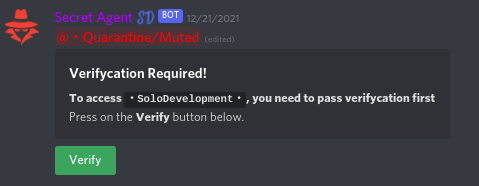
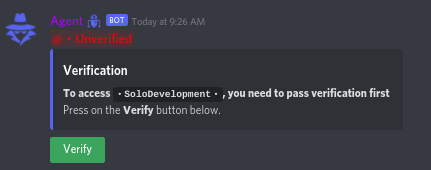
GitBook: [#21] No subject

diff --git a/agent/anti-nuke-anti-raid.md b/agent/anti-nuke-anti-raid.md
@@ -8,13 +8,19 @@ Servers are raided on a daily basis. Whether its a rouge admin, server perms not
 **Emoji Creation and Deletion**\
 **Blacklisted Names**
 
-`!trigger <command> <role> <x within min> <x within hour>` : Set triggers for certain roles.
+`a!trigger <command> <role> <x within min> <x within hour>` : Set triggers for certain roles.
 
 `a!addblackword` : Adds black words. Anyone that sends one of these words the message will be deleted.\
 \
+`a!delblackword` | `<word>` Removes word from blacklist\
+\
 `a!addblacklink link` : Adds black links. Anyone that sends one of these links the message will be deleted.\
 \
-`a!addblackname name` : Adds blacklisted names. Anyone that joins with a name from this list it will notify staff.
+`a!delblacklink` | `<link>` Removes link from blacklist\
+\
+`a!addblackname name` : Adds blacklisted names. Anyone that joins with a name from this list it will notify staff.\
+\
+`a!delblackname` | `<name>` Removes name from blacklist
 
 ### Backup System
 
@@ -29,12 +35,12 @@ To ensure a safe server and working anti nuke system Agent will restore the late
 \
 `a!showbackup/sbup <id>` : Shows more information about backup by using the id\
 \
-'restoreall/rall \<id>': 'Restores everything',\
+`a!restoreall/rall <id>` : Restores everything\
 \
-restoremissing/rms \<id>': 'Restores missing',\
+`a!restoremissing/rms <id>` : Restores missing\
 \
-'restorechannel/rsc \<all/channel(s)>': 'Restores specified or all channels',\
+`a!restorechannel/rsc <all/channel(s)>` : Restores specified or all channels\
 \
-restorerole/rsr \<all/role(s)>': 'Restores specified or all roles',\
+`a!restorerole/rsr <all/role(s)>` : Restores specified or all roles\
 \
-restorewebhooks/rswh': 'Restores all webhooks',
+`a!restorewebhooks/rswh` : Restores all webhooks

diff --git a/agent/verification.md b/agent/verification.md
@@ -4,21 +4,16 @@ description: This page describes the verification system incorporated in Wick
 
 # Verification
 
-Agent includes an easy to setup but advanced system to verify that you are here for the right uses. It helps insure that you are a real user not a scripted user. Its set so everyone entering your server has to pass through it.\
-
+Agent includes an easy to setup but advanced system to verify that you are here for the right uses.  Its set so everyone entering your server has to pass through it.\
+\
+Every user that joined your server (If enabled) will have to pass through the join gate. It helps insure that you are a real user not a scripted user. Upon join a user automatically receives the Unverified/Timeout role, to have this removed they will go to your verify channel and click verify. If there account is not marked as suspicious than they will pass, if it is they will stay locked out.
 
 To enable/disable the join gate use `a!joingate enable` or `a!joingate disable`\
 
 
 To set your verify channel use the command `a!makeverify #channel`
 
-![](<../.gitbook/assets/image (1).png>)
+![](../.gitbook/assets/image.png)
 
-
-
-If setup correctly the bot will send a menu looking like this to that channel.
-
+If setup correctly the bot will send a menu looking like this to that channel.\
 ![](<../.gitbook/assets/image (3).png>)
-
-
-

diff --git a/agent/commands/server-tools.md b/agent/commands/server-tools.md
@@ -1,0 +1,38 @@
+# Server Tools
+
+`a!purge <qty> @User` : Purges messages\
+**Note**: Only owner can use without specifying user\
+\
+`a!slowmode <seconds>` : Assigns slow mode time to current channel
+
+### Timed Messages
+
+`a!timedmessage <minutes> #channel <message>` : Sends message on timer \
+\
+`a!timedmessagelist` : Shows list of timed messages and their IDs \
+\
+`a!deltimedmessage <id>` : Deletes a timed message
+
+### Lockdown Commands
+
+`a!lockexempt <role>` : Exempts role from lockdown \
+\
+`a!dellockexempt <role>` : Removes role from lockdown exmpt\
+\
+`a!chanlockdown` : Locksdown the channel, restricting access \
+\
+`a!chanunlock` : Unlocks the channel \
+\
+`a!rolelockdown <role>` : Locksdown a role, restricting perms \
+\
+`a!roleunlock <role>` : Unlocks a role
+
+### Bot Messages
+
+`a!sendmessage #channel <msg>` : Sends a text message to channel \
+\
+`a!sendembed #channel> <title> <message> <footer> [image]` : Sends embed to channel
+
+### Whitelist
+
+`a!whitelist <ping/roleping/spam/links/words> <add/del/enable/disable> <role/channel/user>` : Whitelist one of the following for different areas of the server.

diff --git a/agent/commands/moderation/spam-scam.md b/agent/commands/moderation/spam-scam.md
@@ -3,7 +3,4 @@
 So we know all about botted accounts that come in and spam those suspicious or wishing links. So we built a spam/scam system.\
 \
 \
-`!spamscam/!ss <@user/id>` - This places them into a channel with other spammers where they cannot see other channels or actual users. This is punishment is for users who send spam/scam messages within the server or have been reported for DM spam/scam by another user.\
-\
-\
-To punish someone for something other than spam, use the `!mute/!m <@user/id> <minutes>` command which will give them the Muted role **for the specified amount of time,** prohibiting them to send messages.\
+`!spamscam/!ss <@user/id>` : This places them into a channel (If you make one) with other spammers where they cannot see other channels or actual users. This is punishment is for users who send spam/scam messages within the server or have been reported for DM spam/scam by another user.\

diff --git a/agent/commands/moderation/quarantine-and-unquarantine.md b/agent/commands/moderation/quarantine-and-unquarantine.md
@@ -2,12 +2,8 @@
 
 #### With the correct agent setup, a user in Quarantine is not capable of doing ANYTHING. They can't even see channels unless the admins allow them to.
 
-
-
-Every user that joined your server (If enabled) will have to pass through the join gate. Upon join a user automatically receives the Unquarantined role, to have this removed they will go to your verify channel and click verify. If there account is not marked as suspicious than they will pass, if it is they will stay locked out.
-
-
-
-
+`a!quarantine @User` : Quarantines the mentioned user.\
+\
+`a!unquarantine @User` : Unquarantines the mentioned user.
 
 Moderators cannot give/take roles, only staff. If a user has an issue with verification in your verification channel. You may give them the member role by using `!giverole/!gr <@user/id> roleid` and remember to remove the Quarantine role using `!removerole/!rr <@user/id> roleid`.\

diff --git a/agent/commands/channels.md b/agent/commands/channels.md
@@ -2,11 +2,7 @@
 
 We all know server owners feel safer when they don't need to give excessive permissions to there staff. So you can use Agent's creating/deleting commands to create & delete channels.\
 \
-`a!createchannel <name> <type> <category>`
-
-There are two types you can use `text` or `voice` these have limits so you will be quarantined if you use it to much in a certain period of time.
+`a!createchannel <name> <type> <category>` : There are two types you can use `text` or `voice` these have limits so you will be quarantined if you use it to much in a certain period of time.
 
 \
-`a!delchannel`
-
-To delete a `text` channel. This has limits so you will be quarantined if you use it to much in a certain period of time.
+`a!delchannel` : To delete a `text` channel. This has limits so you will be quarantined if you use it to much in a certain period of time.

diff --git a/agent/commands/moderation/mute-kick-and-ban.md b/agent/commands/moderation/mute-kick-and-ban.md
@@ -1,15 +1,11 @@
 # Mute, Kick & Ban
 
-
-
-* Kick/Ban/Mute/Unmute one or multiple members **specified in any way.**
-* Hack Ban users **that are not in your server**!
-* Ban/Mute members **for a certain period of time**.
-* Mute/Unmute members **in voice-channels**.
-
-
-
-
-
-
-
+Want your server to be a safe place for your members? Make sure you can Ban, Kick, and Mute those who don't respect the rules! \
+\
+`a!mute @User` : Mutes the mentioned user for the time that you set.\
+\
+`a!unmute @User` : Unmutes the user before the mute time period is up\
+\
+`a!kick @User` : Kicks the mentioned user from the server\
+\
+`a!ban @User` : Bans the mentioned user.

diff --git a/agent/commands/roles.md b/agent/commands/roles.md
@@ -35,3 +35,23 @@ Guild Owner (Permit Level 6)
 
 
 `a!runver` : Sets unverified role, (Permit Level 0) The unverified role for your server.
+
+
+
+## Adding Roles
+
+`a!addmaster <user/id>` : Adds master role to user \
+\
+`a!addowner <user/id>` : Adds owner role to user \
+\
+`a!addadmin <user/id>` : Adds admin role to user \
+\
+`a!addmod <user/id>` : Adds mod role to user \
+\
+`a!giverole <user/id> <role>` : Assigns role to user \
+\
+`a!removerole <user/id> <role>` : Removes role from user
+
+### Other
+
+`a!leavelist enable/disable` or `exempt <role>` : Saves roles for users, exempts specified role from saving

diff --git a/agent/commands/backps.md b/agent/commands/backps.md
@@ -1,0 +1,21 @@
+# Backps
+
+`a!createbackup` : Creates backup of server \
+\
+`a!autobackup <minutes>` : Creates backup every set minutes \
+\
+`a!deletebackup <ID>` : Deletes a backup \
+\
+`a!showbackup <ID>` : Shows details of a backup\
+\
+`a!restoreall` : Restores everything backed up \
+\
+`a!restoremissing` : Restores from backup only what is missing\
+\
+`a!restorechannel` : Restores missing channels \
+\
+`a!restorerole` : Restores missing roles \
+\
+`a!restorewebhooks` : Restores missing webhooks\
+\
+`a!listbackups` : Shows all backups\

diff --git a/Gifter/getting-started.md b/Gifter/getting-started.md
@@ -12,7 +12,7 @@ description: Starting your first giveaway using our interactive wizard!
 
 You now can add your requirements/multipliers _by clicking <mark style="color:green;">"Add Req."</mark> and/or <mark style="color:green;">"Add Mult."</mark>  _  after choose how your giveaway should run.
 
-![](../.gitbook/assets/image.png)
+![](<../.gitbook/assets/image (1).png>)
 
 Lastly, and when you make sure that everything is set click the <mark style="color:green;">**Start**</mark>** button** to start the giveaway!
 

diff --git a/SUMMARY.md b/SUMMARY.md
@@ -23,6 +23,8 @@
     * [Mute, Kick & Ban](agent/commands/moderation/mute-kick-and-ban.md)
     * [Spam/Scam](agent/commands/moderation/spam-scam.md)
     * [Quarantine & Unquarantine](agent/commands/moderation/quarantine-and-unquarantine.md)
+  * [Server Tools](agent/commands/server-tools.md)
+  * [Backps](agent/commands/backps.md)
 
 ## 🎁 ・Gifter
 

diff --git a/agent/commands/moderation/README.md b/agent/commands/moderation/README.md
@@ -1,2 +1,3 @@
 # Moderation
 
+Moderation as a system is key to run many servers on discord. The security that moderation provides to your server can give your users a much better experience in your community and prevents rogue admins, server perms not setup properly or someone clicking a phishing link from doing damage to your server.
